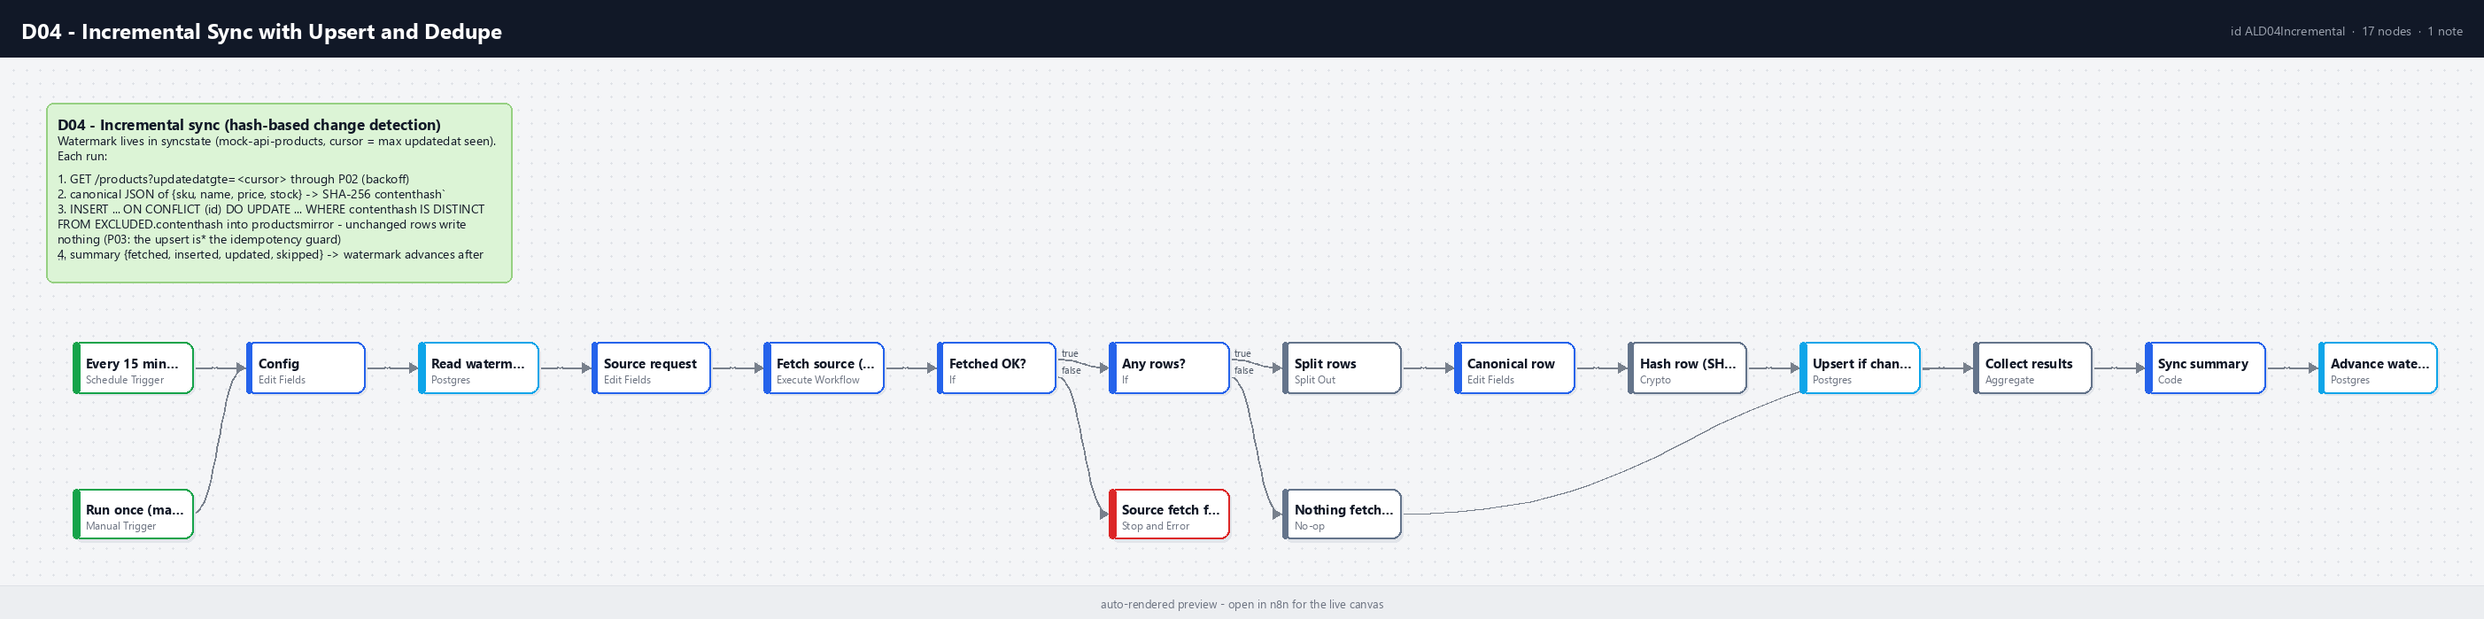
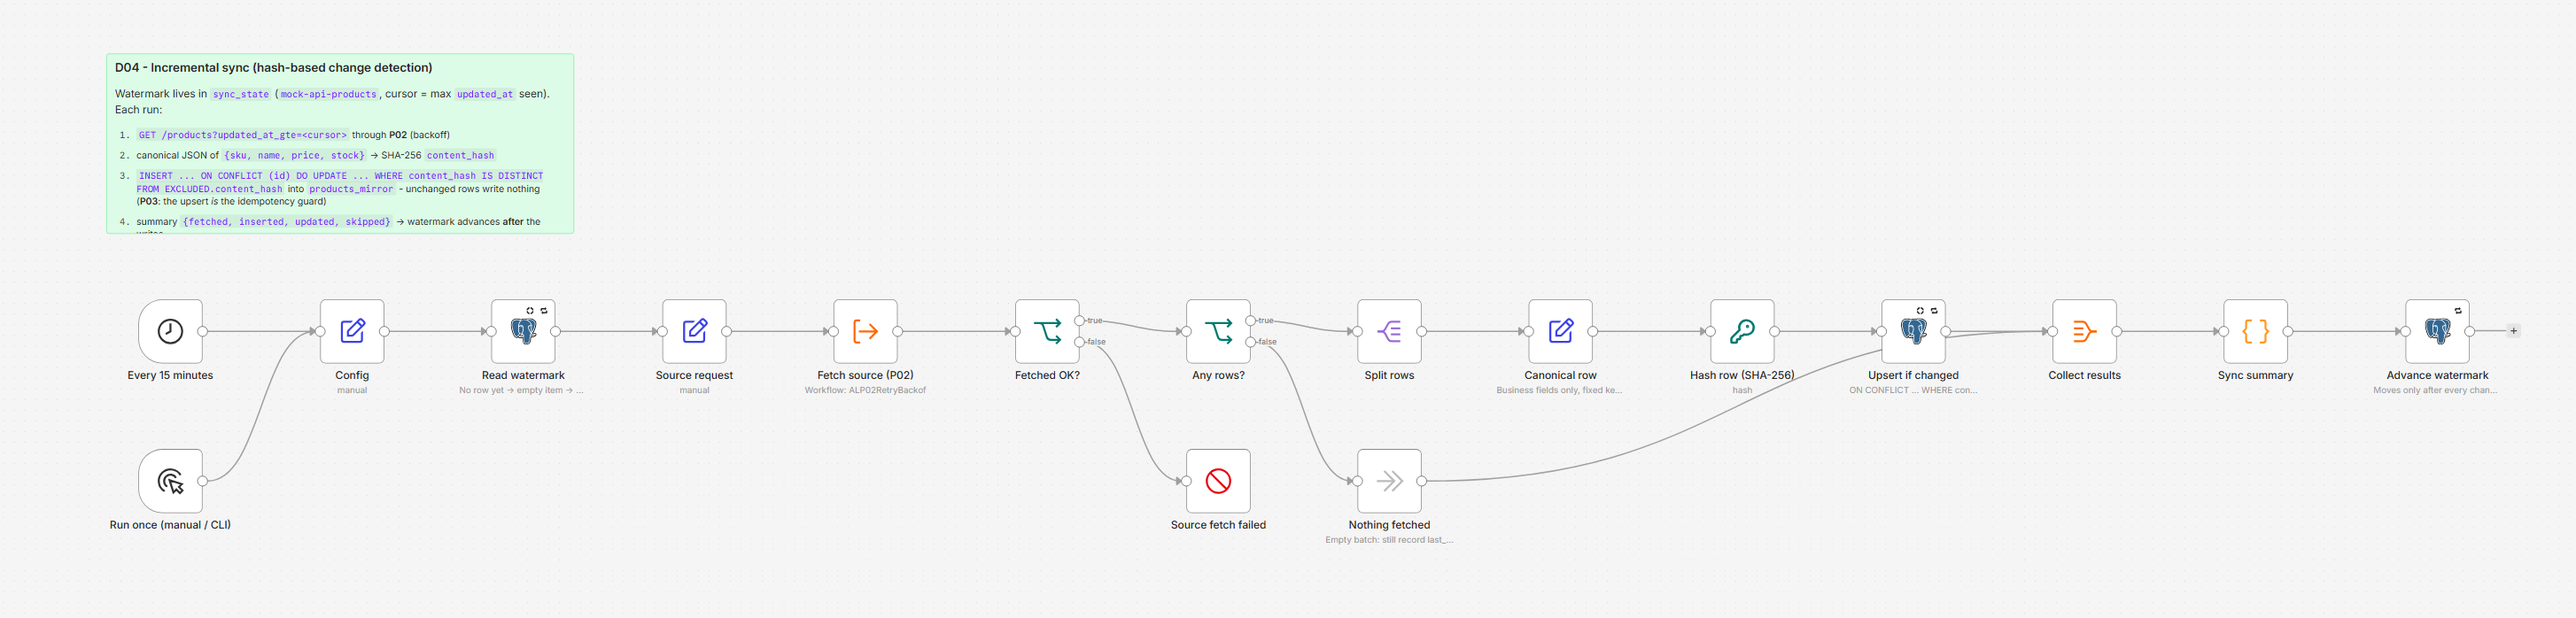
feat(screenshots): real n8n canvas captures for all 27 items via headless Chromium
- scripts/dev/canvas-screenshots.py: owner login, zoom-to-fit with settle detection, editor chrome hidden,
  crop to the node bounding box, >= 1200 px check (Playwright + Pillow, both optional imports)
- /screenshot command, CLAUDE.md, README and the folder contract point at it; render-preview stays the fallback
- every assets/screenshot.png replaced by the live canvas

Claude-Session: https://claude.ai/code/session_01MBYoQa1AyAYkdrJkowrVGS

diff --git a/scripts/dev/canvas-screenshots.py b/scripts/dev/canvas-screenshots.py
@@ -1,0 +1,144 @@
+#!/usr/bin/env python
+"""canvas-screenshots.py [folder ...] [--width 1600] [--scale 2] - real n8n canvas captures, headless.
+
+Logs in to the running n8n with the owner from .env (never printed), opens each workflow's editor in headless
+Chromium (Playwright), zooms to fit, hides the editor chrome and writes assets/screenshot.png for every folder
+given (default: every workflows/ and patterns/ folder whose workflow.json id exists in n8n).
+
+    python scripts/dev/canvas-screenshots.py                          # all folders
+    python scripts/dev/canvas-screenshots.py workflows/M05-exchange-rate-watcher
+
+Requires: stack up, `bash scripts/setup.sh` run once, `pip install playwright && playwright install chromium`.
+"""
+from __future__ import annotations
+
+import json
+import sys
+import time
+from pathlib import Path
+
+sys.path.insert(0, str(Path(__file__).resolve().parent))
+from _n8n import REPO, base_url, read_env, workflow_folders  # noqa: E402
+
+HIDE_CSS = """
+#side-menu, [data-test-id="main-sidebar"], [data-test-id="canvas-controls"], .vue-flow__minimap,
+[data-test-id="node-creator-plus-button"], [data-test-id="canvas-plus-button"], [data-test-id="canvas-node-creator-button"],
+.el-notification, .el-dialog__wrapper, [data-test-id="ask-assistant-floating-button"],
+[data-test-id="execute-workflow-button"], [data-test-id="canvas-tabs"], .el-radio-group,
+[data-test-id="node-view-root"] > div > div:has(> button), [data-test-id="right-sidebar"],
+[data-test-id="workflow-logs-panel"], [data-test-id="canvas-controls-right"] { display: none !important; }
+"""
+
+# Bounding box (CSS px) of every canvas node incl. sticky notes, padded; None when nothing rendered.
+BBOX_JS = """
+() => {
+  const els = [...document.querySelectorAll('.vue-flow__node')];
+  if (!els.length) return null;
+  let l = 1e9, t = 1e9, r = -1e9, b = -1e9;
+  for (const e of els) { const q = e.getBoundingClientRect(); l = Math.min(l, q.left); t = Math.min(t, q.top); r = Math.max(r, q.right); b = Math.max(b, q.bottom); }
+  // also hide anything that looks like a floating toolbar (buttons outside the canvas nodes)
+  for (const btn of document.querySelectorAll('button')) {
+    const txt = (btn.textContent || '').trim();
+    if (/^(Execute workflow|Test workflow|Editor|Executions|Evaluations)/.test(txt)) { const p = btn.closest('div'); (p || btn).style.display = 'none'; }
+  }
+  return { l, t, r, b };
+}
+"""
+
+
+def stable_box(page, tries: int = 12) -> dict | None:
+    """Bounding box once two consecutive readings agree (zoom/fit animations settle)."""
+    prev = page.evaluate(BBOX_JS)
+    for _ in range(tries):
+        time.sleep(0.3)
+        cur = page.evaluate(BBOX_JS)
+        if cur == prev:
+            return cur
+        prev = cur
+    return prev
+
+
+def capture(page, folder: Path, base: str, width: int) -> str:
+    wf = json.loads((folder / "workflow.json").read_text(encoding="utf-8"))
+    page.goto(f"{base}/workflow/{wf['id']}", wait_until="networkidle")
+    page.wait_for_selector('[data-test-id="canvas-node"]', timeout=30000)
+    page.keyboard.press("Escape")            # dismiss any first-visit dialog
+    page.add_style_tag(content=HIDE_CSS)
+    time.sleep(0.8)
+    vw, vh = page.viewport_size["width"], page.viewport_size["height"]
+    page.mouse.click(8, vh - 8)              # bottom-left corner: empty canvas once the sidebar is hidden
+    page.keyboard.press("1")                 # zoom to fit
+    pad = 60                                 # room for labels under nodes and the output stubs on the right
+    box = stable_box(page)
+    for _ in range(6):                       # fit-to-view ignores the hidden chrome; zoom out until it really fits
+        if not box or (box["l"] >= pad and box["t"] >= pad and box["r"] <= vw - pad and box["b"] <= vh - pad):
+            break
+        page.keyboard.press("-")
+        box = stable_box(page)
+    page.keyboard.press("Escape")            # deselect
+    page.mouse.move(vw - 4, vh - 4)          # no hover toolbar on a node
+    box = stable_box(page)
+    out = folder / "assets" / "screenshot.png"
+    out.parent.mkdir(exist_ok=True)
+    if box:
+        clip = {"x": max(0, box["l"] - pad), "y": max(0, box["t"] - pad // 2)}   # less on top: nothing renders above
+        clip["width"] = min(vw, box["r"] + pad) - clip["x"]
+        clip["height"] = min(vh, box["b"] + pad) - clip["y"]
+        page.screenshot(path=str(out), type="png", clip=clip)
+    else:
+        page.screenshot(path=str(out), type="png")
+    try:
+        from PIL import Image  # type: ignore
+    except ImportError:
+        return "saved (install Pillow to verify the size)"
+    with Image.open(out) as im:
+        w, h = im.size
+        if im.mode != "RGB":
+            im.convert("RGB").save(out)
+    if w < 1200:
+        raise RuntimeError(f"capture only {w}px wide (< 1200); widen --width or check the canvas")
+    return f"{w}x{h}"
+
+
+def main() -> int:
+    import argparse
+    ap = argparse.ArgumentParser(description=__doc__, formatter_class=argparse.RawDescriptionHelpFormatter)
+    ap.add_argument("folders", nargs="*", help="workflow/pattern folders (default: all with a workflow.json)")
+    ap.add_argument("--width", type=int, default=1600, help="viewport width in CSS px (default 1600)")
+    ap.add_argument("--scale", type=int, default=2, help="device scale factor (default 2 -> ~3000 px captures)")
+    ns = ap.parse_args()
+    width, scale = ns.width, ns.scale
+    folders = [Path(a) for a in ns.folders] or workflow_folders()
+    env = read_env()
+    base = base_url(env)
+    email = env.get("N8N_OWNER_EMAIL", "owner@lab.local")
+    password = env.get("N8N_OWNER_PASSWORD", "LabOwner2026x")
+    try:
+        from playwright.sync_api import sync_playwright
+    except ImportError:
+        print("pip install playwright && playwright install chromium")
+        return 1
+    failed = 0
+    with sync_playwright() as p:
+        browser = p.chromium.launch()
+        ctx = browser.new_context(viewport={"width": width, "height": 1000}, device_scale_factor=scale)
+        r = ctx.request.post(f"{base}/rest/login", data={"emailOrLdapLoginId": email, "email": email, "password": password})
+        if r.status != 200:
+            print(f"login failed: HTTP {r.status} (owner from .env; run bash scripts/setup.sh first)")
+            return 1
+        page = ctx.new_page()
+        for folder in folders:
+            if not (folder / "workflow.json").exists():
+                continue
+            try:
+                size = capture(page, folder, base, width)
+                print(f"{folder.as_posix()}: assets/screenshot.png {size}")
+            except Exception as exc:  # noqa: BLE001
+                failed += 1
+                print(f"{folder.as_posix()}: FAILED {type(exc).__name__}: {str(exc).splitlines()[0][:120]}")
+        browser.close()
+    return 1 if failed else 0
+
+
+if __name__ == "__main__":
+    raise SystemExit(main())

diff --git a/.claude/commands/screenshot.md b/.claude/commands/screenshot.md
@@ -1,17 +1,17 @@
 ---
-description: Refresh assets/screenshot.png for one or all items - a real n8n canvas capture via Chrome when the stack is running, otherwise the auto-rendered preview.
+description: Refresh assets/screenshot.png for one or all items - a real n8n canvas capture (headless Chromium) when the stack is running, otherwise the auto-rendered preview.
 argument-hint: <ID|all> [--preview-only]
-allowed-tools: Bash(python:*), Bash(curl:*), Bash(bash scripts/*), Read, ToolSearch, mcp__claude-in-chrome__tabs_context_mcp, mcp__claude-in-chrome__tabs_create_mcp, mcp__claude-in-chrome__navigate, mcp__claude-in-chrome__computer, mcp__claude-in-chrome__read_page, mcp__claude-in-chrome__javascript_tool, mcp__claude-in-chrome__tabs_close_mcp
+allowed-tools: Bash(python:*), Bash(curl:*), Bash(bash scripts/*), Read
 ---
 
-Target: `$ARGUMENTS` (a catalog ID or `all`).
+Target: `$ARGUMENTS` (a catalog ID, a folder, or `all`).
 
 1. If `--preview-only` or `curl -s http://localhost:5678/healthz` fails: run `python scripts/render-preview.py <folder...>`
    and stop (the preview is a faithful node graph, labelled as auto-rendered).
-2. Otherwise load the Chrome tools with a single ToolSearch (tabs_context, tabs_create, navigate, computer, read_page,
-   javascript_tool, tabs_close). Make sure the item is imported (`bash scripts/import-workflows.sh <folder>`), open
-   `http://localhost:5678/workflow/<workflow id>` in a new tab (log in with the owner from `.env` if prompted - the user
-   has to type the password; never read `.env` yourself), wait for the canvas, press `1` to zoom-to-fit, hide the
-   left sidebar if it overlaps, and capture the canvas at >= 1400 px width. Save via
-   `python scripts/dev/save-screenshot.py <folder> <path-to-capture>`; it crops and verifies the width.
-3. `python scripts/validate.py <folder>` to confirm the asset passes, and close the tabs you opened.
+2. Otherwise make sure the item is imported (`bash scripts/import-workflows.sh <folder>`), then run
+   `python scripts/dev/canvas-screenshots.py <folder...>` (no argument = every folder). It logs in with the owner from
+   `.env` (the script reads it; never print it), opens each editor in headless Chromium, zooms to fit, hides the editor
+   chrome, crops to the node bounding box and writes `assets/screenshot.png` (>= 1200 px wide). Needs
+   `pip install playwright && playwright install chromium` once.
+3. Open one or two of the PNGs with Read to eyeball them (no clipped nodes, no selected node, sticky notes visible),
+   then `python scripts/validate.py <folder>` to confirm the asset passes.

diff --git a/.claude/skills/workflow-folder-contract/SKILL.md b/.claude/skills/workflow-folder-contract/SKILL.md
@@ -69,7 +69,8 @@ Patterns use `templates/pattern-README.md` (Problem, Pattern, Implementation, Tr
 3. Write the authoring script (`.claude/skills/n8n-workflow-json/authoring/<ID>_<slug>.py`) and run it.
 4. Write `test/` inputs (JSON payloads, CSV rows, SQL, .eml, audio) - synthetic data only, `@lab.local` emails.
 5. Write the README (all sections, concrete commands, no placeholders left).
-6. `python scripts/render-preview.py <folder>` for the screenshot; replace with a real capture when the stack runs.
+6. `python scripts/dev/canvas-screenshots.py <folder>` for a real canvas capture (stack up, headless Chromium via
+   Playwright); `python scripts/render-preview.py <folder>` draws the auto-rendered preview when the stack is down.
 7. `python scripts/validate.py <folder>`; fix everything it reports.
 8. With the stack running: import, execute, verify (see n8n-workflow-json skill section 7). Then set `status: shipped`.
 9. `python scripts/build-matrix.py` and update the pattern READMEs "Used by" lists.

diff --git a/README.md b/README.md
@@ -219,7 +219,8 @@ Nothing in the repo requires a paid tier, and no workflow is marked `shipped` on
 ```bash
 python scripts/validate.py [folder] [--strict] [--docs]     # folder contract, JSON structure, secret scan, links
 python scripts/build-matrix.py [--check]                    # regenerate (or verify) the matrix above
-python scripts/render-preview.py <folder>                   # draw assets/screenshot.png from workflow.json
+python scripts/render-preview.py <folder>                   # draw assets/screenshot.png from workflow.json (stack down)
+python scripts/dev/canvas-screenshots.py [folder]           # real n8n canvas capture, headless Chromium (stack up)
 bash scripts/import-workflows.sh <folder> [--publish]       # push one folder into the running n8n
 bash scripts/export-workflows.sh [ID ...]                   # pull from n8n, strip credentials, pretty-print
 bash scripts/reseed.sh                                      # drop and reload only the demo database

diff --git a/CLAUDE.md b/CLAUDE.md
@@ -42,7 +42,8 @@ docker compose --profile core up -d && bash scripts/setup.sh     # stack + owner
 python scripts/validate.py [folder]                              # contract + secrets (CI gate; Stop hook runs it too)
 python scripts/build-matrix.py                                   # regenerate README matrix
 python .claude/skills/n8n-workflow-json/authoring/<ID>_<slug>.py # regenerate one workflow.json
-python scripts/render-preview.py <folder>                        # preview screenshot
+python scripts/render-preview.py <folder>                        # preview screenshot (stack down)
+python scripts/dev/canvas-screenshots.py [folder]                # real canvas capture, headless (stack up)
 bash scripts/import-workflows.sh <folder> [--publish]            # push to n8n
 bash scripts/export-workflows.sh                                 # pull from n8n (credentials stripped)
 ```
